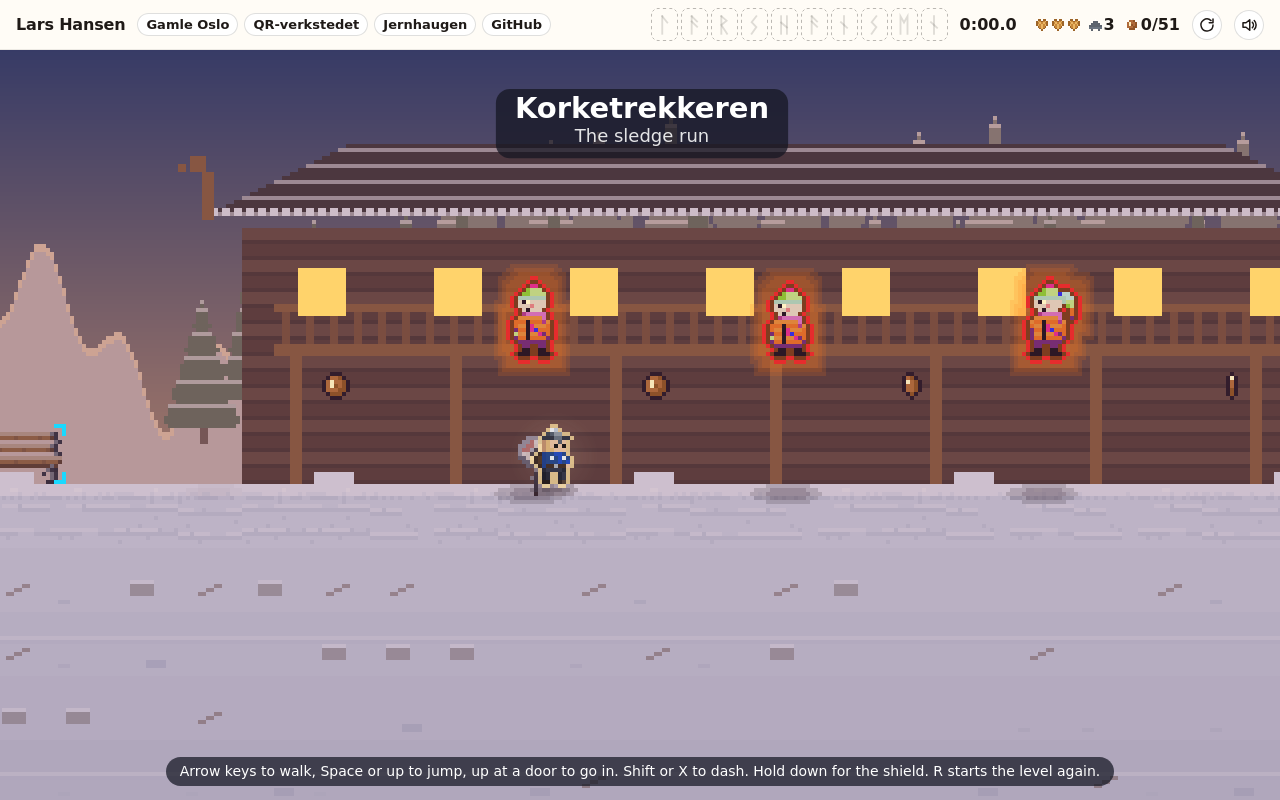
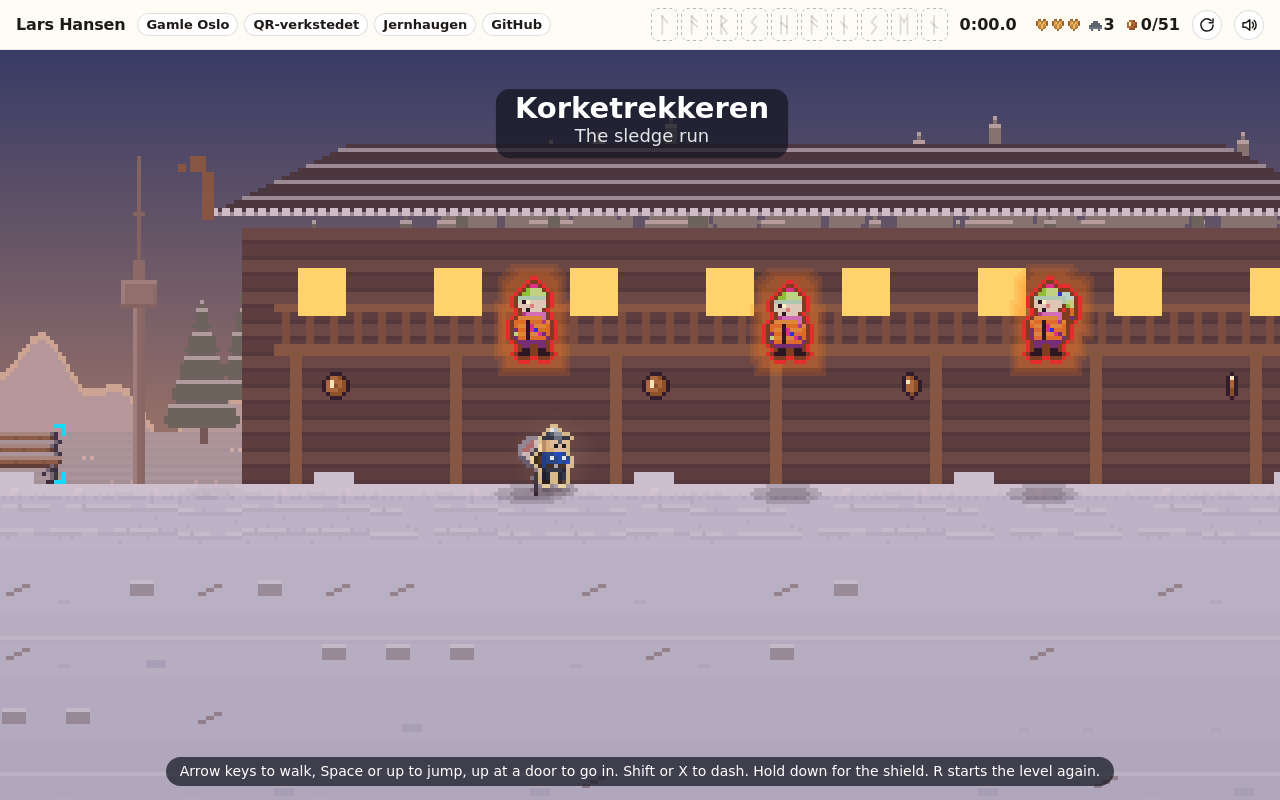
Order 44, item 4: LEVELS.html's pictures of Akerselva, Gamle Oslo, Korketrekkeren, Østensjøvannet and the encore retaken (their far views changed), and two pictures' descriptions

Changed region(s): [[0.0, 0.3125, 0.1562, 0.625], [0.1562, 0.4375, 0.1875, 0.4688], [0.0938, 0.25, 0.125, 0.2812]]

diff --git a/docs/games/LEVELS.html b/docs/games/LEVELS.html
@@ -443,7 +443,7 @@ const LEVELS = [
     oslo: "Munch set The Scream on this hillside. The evening sky here gets the bands.",
     you: "From here he can see Gamle Oslo.", kit: "zone (gust on a beat), launcher (sheep)" },
   { ch: "N", id: "nabolaget", name: "Gamle Oslo", where: "From Vålerenga's wooden houses over the hill", sky: "Always a winter night, northern lights", foes: "cats, crows, a snowball kid, a fox, an owl; and the snow plough", ride: "the door Hjem, to the front page's first house",
-    shot: "Gamle Oslo at night under its name: Vålerenga's roofs in snow, him by a chimney, a plum crow over the houses beating its wings down, their windows lit",
+    shot: "Gamle Oslo at night under its name: Vålerenga's roofs in snow, him by a chimney, a plum crow over the houses beating its wings down, their windows lit; far off between them the city's slim lit towers and Ekeberg's wooded hillside",
     cap: "A crow over the roofs of Vålerenga.",
     add: "Nothing new. Everything from the nine levels before, once each: icy roofs, washing lines that throw him, warm chimney air that lifts, a dark lane, a tram roof. Then the last boss.",
     beats: ["Up onto the roofs of the front page's wooden houses, icy, seen from above the eaves.", "Roof to roof over the back yards on washing lines and chimney air.", "Down into the lane behind Vålerenga kirke, dark but for the church windows and his headlamp, and up the tower: the spire is the last climb.", "Down the snow into Kværnerdalen, past Kruttverket, to a flag and a bench. Then the snow plough: a bounce off the washing line, the dash from a roof, a ride on the tram. Three times on its cab and it parks for good.", "The yellow house on Kværnertoppen. In the window, a Raspberry Pi serving the game you are playing; its light turns green when rune N is taken. The helmet turns gold."],
@@ -475,7 +475,7 @@ const LEVELS2 = [
     oslo: "“The Angry Boy has stamped here since 1940. The bridge holds. Mostly.” The Monolith: a hundred and twenty-one figures in one stone.",
     you: "The second rune of VIKING.", kit: "LevelDef.rules (statues), timed, carrier (lift)" },
   { ch: "K", id: "korketrekkeren", name: "Korketrekkeren", where: "The sledge run from Frognerseteren to Midtstuen", sky: "A winter afternoon", foes: "boys with snowballs, a crow, three sledgers, an owl, a fox", ride: "",
-    shot: "Korketrekkeren's hut: three snowball kids in red jackets and green hats on its balcony, him on the snow below",
+    shot: "Korketrekkeren's hut: three snowball kids in red jackets and green hats on its balcony, him on the snow below, the TV tower dark against the evening sky to the left",
     cap: "The snowball kids at the hut.",
     add: "A sledge he cannot stop (ADR 0026). On the run it carries him at the stretch's speed whatever he presses; he can jump, and duck (down, where the shield would be). A hit costs a heart and he rides on. The run is drawn steep but is a stair of narrow ledges: no slope under his body.",
     beats: ["Frognerseteren: off the train, the sign, the bench, boys throwing snowballs from the restaurant's balcony (the shield); the sign by the sledge says that down is a duck on it.", "The first bends, with snow bumps that toss him up; two sledgers, slower, to jump.", "Low branches to duck; the crossing of the line, its barrier coming down on a beat he can read from far off.", "Down the steep bit and over the gap where the old bridge is gone, onto a long clear landing; the bracteate hangs over it, the feather's only.", "The trees at dusk with lanterns, branches and a last sledger; the run-out to Midtstuen, where the sledge stops and rune K stands by the platform."],
